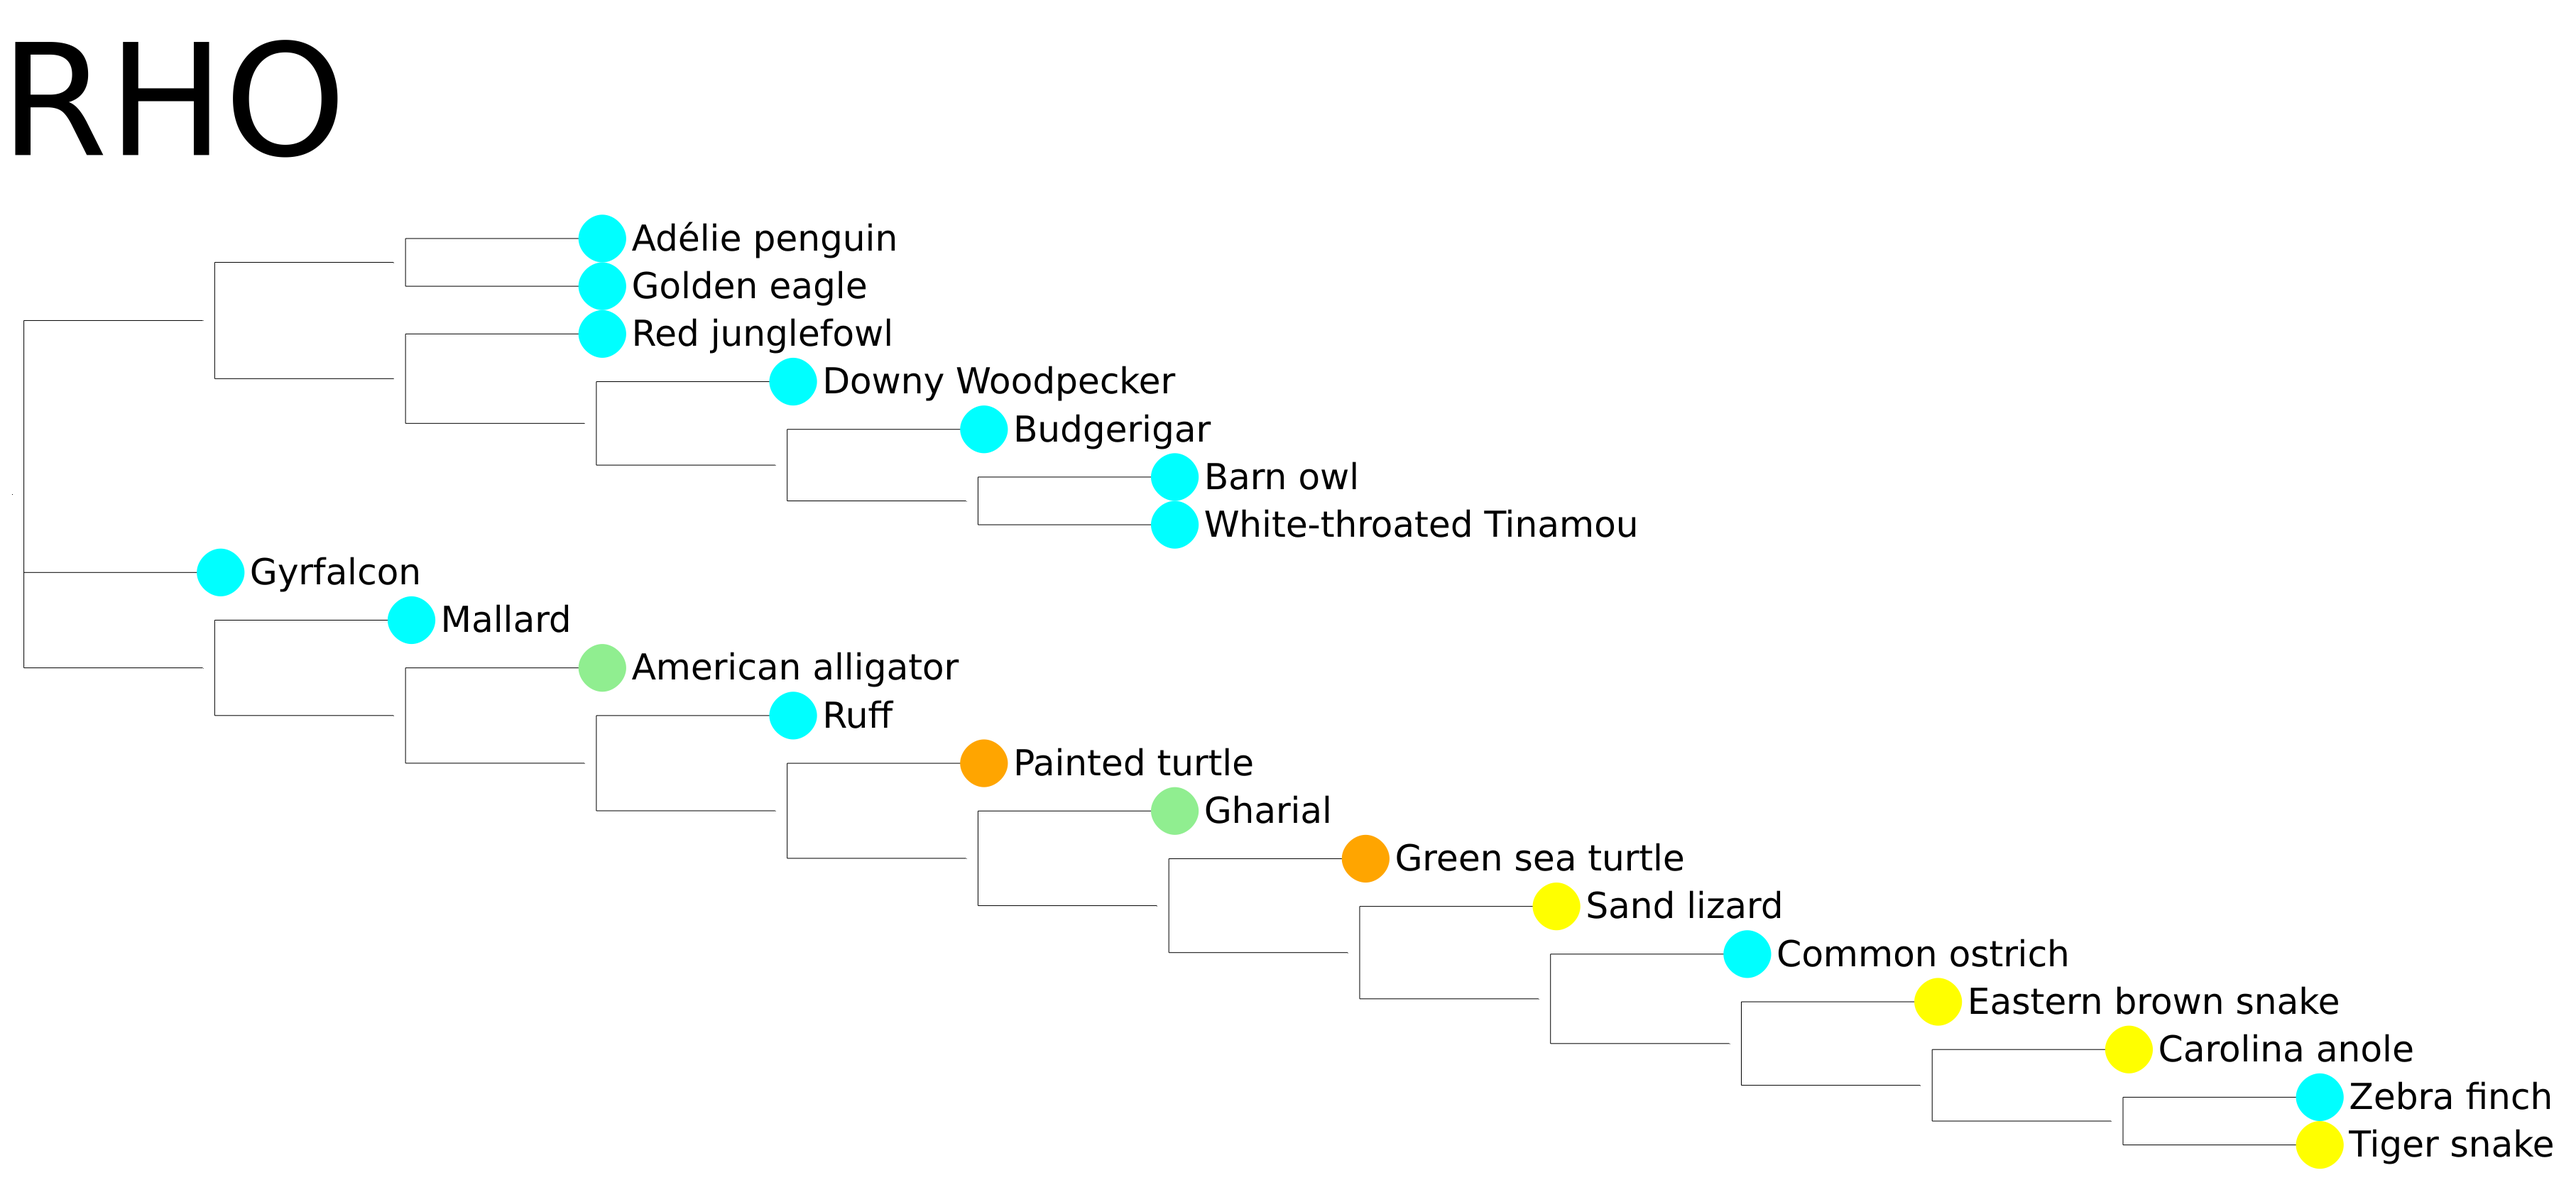
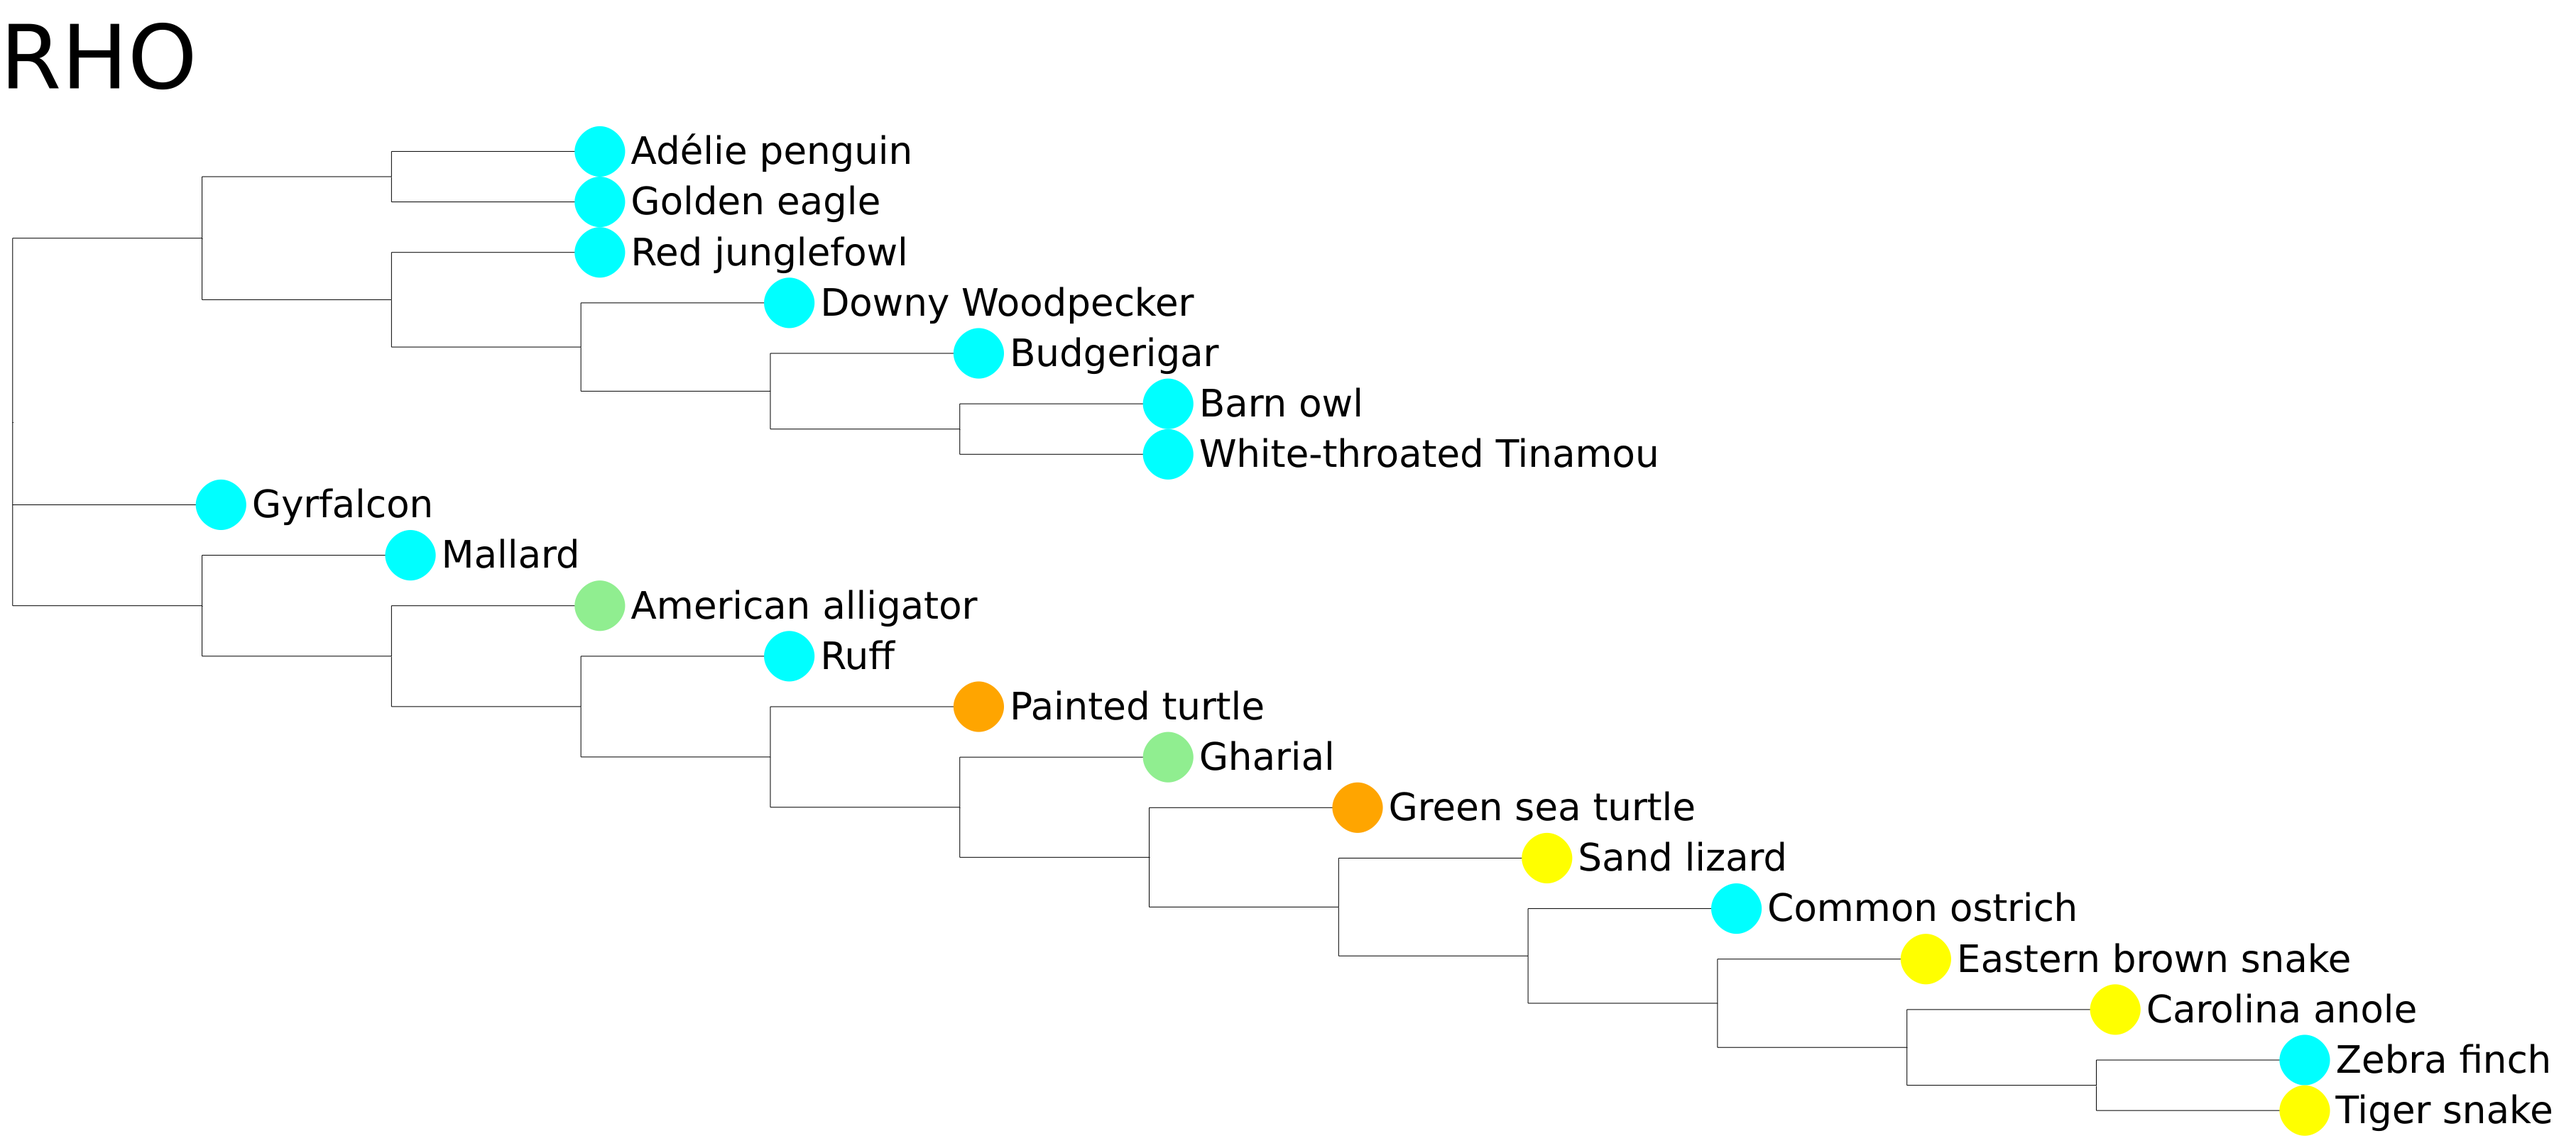
Minor updates

diff --git a/Final/output_tree.py b/Final/output_tree.py
@@ -1,4 +1,5 @@
 from ete3 import Tree, TreeStyle, TextFace, NodeStyle, add_face_to_node
+import re
 
 # This function uses the ETE library to generate an image of the phylogenetic
 # tree that is passed on to it
@@ -16,7 +17,7 @@ def output_tree (the_tree, name, filename):
 
     # Make a new style object that would have features to stylize the ETE tree
     style = TreeStyle()
-    style.title.add_face(TextFace(name, fsize=10), column=0)
+    style.title.add_face(TextFace(name, fsize=5), column=0)
     style.show_scale = False
     style.show_leaf_name = False
 
@@ -31,17 +32,22 @@ def output_tree (the_tree, name, filename):
     crocodilians = ['American alligator', 'Gharial','C']
     turtles = ['Green sea turtle', 'Painted turtle','D']
 
+    # Use regex to parse out the leafname (sometimes it has quotes)
+    regex = re.compile(r"[^']+" )
+
     
     # Loop through all the nodes in the tree
     for n in t.traverse():
         # Make a new node style object and add the leaf name to it
         nstyle = NodeStyle()
-        n.add_face(TextFace(' ' + n.name, fsize=2), 1)
 
         # If the node is a leaf the add the correct color scheme to it, and 
         # make sure that the leaf name is visible
         if n.is_leaf():
-            leafname = str(n.name)
+            # Get the proper leaf name
+            leafname = regex.search(n.name).group(0)
+            n.add_face(TextFace(' ' + leafname, fsize=2), 1)
+
             if leafname in birds:
                 nstyle["fgcolor"] = "aqua"
             elif leafname in squamates:
